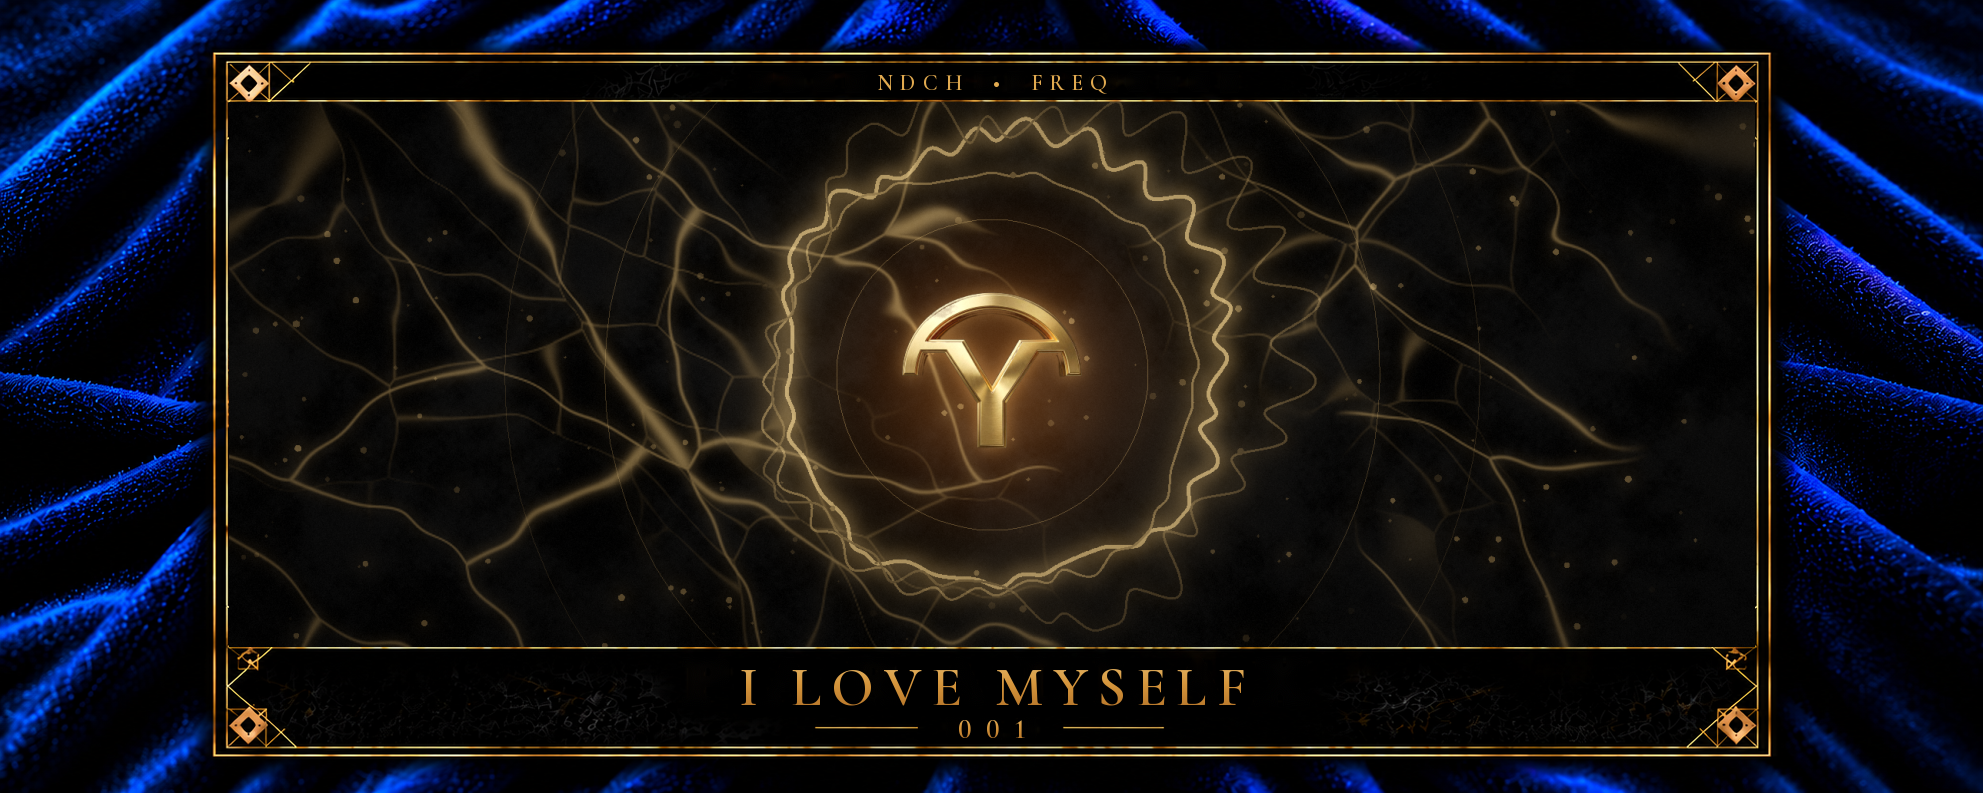
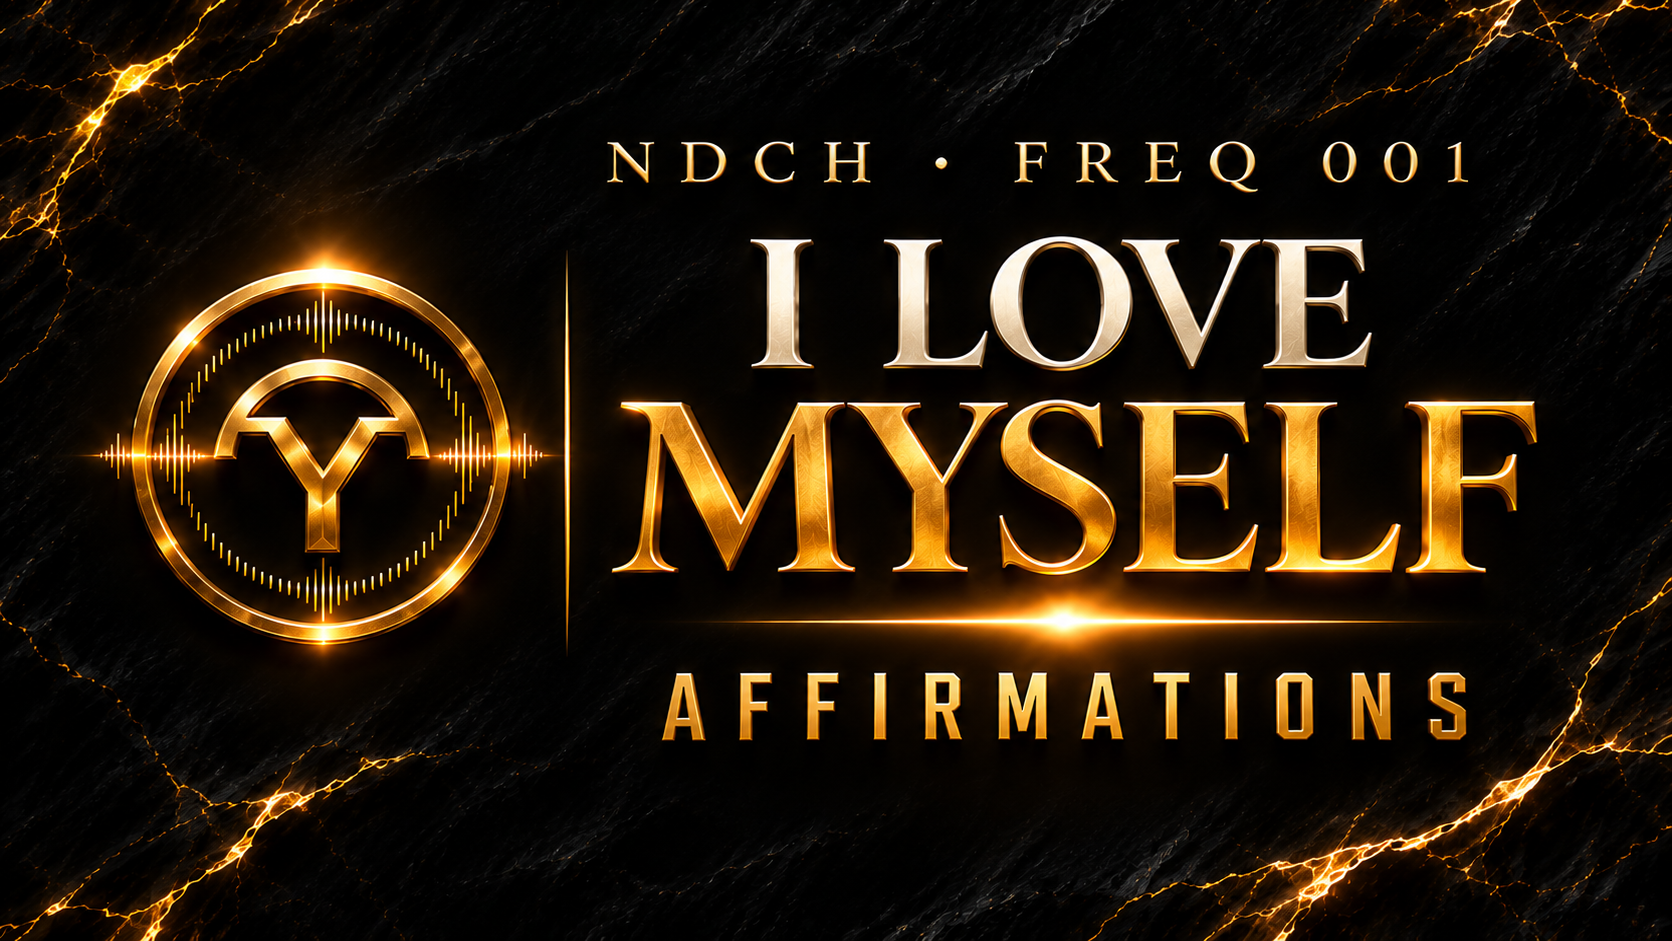
FREQ 001: re-release with DreamForge binaural bed and new covers; freq:binaural --video (#217)
Claude-Session: https://claude.ai/code/session_018B2Xkx99ojEt22DjChFVnu

diff --git a/scripts/freq-binaural.ts b/scripts/freq-binaural.ts
@@ -4,11 +4,13 @@
  *   npm run freq:binaural -- 002 path/to/song.wav            uses posts/freq/002_*.json → binaural
  *   npm run freq:binaural -- 002 song.wav --out renders/      choose the output folder
  *   npm run freq:binaural -- --protocol DreamForge song.wav   try a protocol without a track file
+ *   npm run freq:binaural -- 002 song.wav --video cut.mp4    also put the verified audio into a finished video (picture untouched)
  *   npm run freq:binaural -- --list                           print the protocols and the chart
  *
  * Writes <out>/FREQ_<NNN>_<TITLE>_binaural.wav (the audio to render the video with), the bed stem,
  * and a .report.json with every measurement. Exits non-zero if any check fails: don't render with it.
  */
+import { execFileSync } from 'node:child_process';
 import { mkdirSync, writeFileSync } from 'node:fs';
 import { join, resolve } from 'node:path';
 import { AFFIRMATION_FIT, CHART, PROTOCOLS, resolveBinaural, type ProtocolName, type TrackBinaural } from '../lib/binaural.ts';
@@ -27,6 +29,7 @@ if (args.includes('--list')) {
   process.exit(0);
 }
 
+const video = opt('--video');
 const outDir = resolve(opt('--out') ?? 'renders/freq');
 const protocol = opt('--protocol') as ProtocolName | undefined;
 let decl: TrackBinaural, name: string;
@@ -53,4 +56,11 @@ writeFileSync(join(outDir, `${name}_binaural.report.json`), JSON.stringify(repor
 console.log(`${name}: ${spec.source} · L ${spec.left_hz} Hz / R ${spec.right_hz} Hz · beat ${spec.beat_hz} Hz · ${spec.level_lu_below} LU under the song\n`);
 for (const c of report.checks) console.log(`  ${c.ok ? 'ok  ' : 'FAIL'}  ${c.name.padEnd(28)} ${c.detail}`);
 console.log(`\n${report.ok ? 'ready' : 'NOT READY, do not render with this'}: ${out}`);
+if (report.ok && video) {
+  // Picture copied as is; audio as stereo AAC 320k without mid/side coding, so each ear keeps its own tone.
+  const vout = join(outDir, `${name}_BINAURAL.mp4`);
+  execFileSync('ffmpeg', ['-y', '-v', 'error', '-i', resolve(video), '-i', out, '-map', '0:v', '-map', '1:a', '-c:v', 'copy',
+    '-c:a', 'aac', '-aac_ms', '0', '-b:a', '320k', '-ac', '2', '-movflags', '+faststart', '-shortest', vout]);
+  console.log(`video: ${vout}`);
+}
 process.exit(report.ok ? 0 : 1);

diff --git a/binaural.test.ts b/binaural.test.ts
@@ -37,11 +37,14 @@ test('resolve: left = base, right = base + beat; protocols cannot be overridden'
   assert.deepEqual(validateBinaural({ protocol: 'DreamForge', level_lu_below: 20, fade_s: 6 }), []);
 });
 
-test('FREQ rules: 002+ needs a bed and a headphones line; no health claims anywhere', () => {
+test('FREQ rules: a track needs a bed and a headphones line; no health claims anywhere', () => {
   const base = loadPosts(FREQ_DIR).find((p) => p.posting === '001')!;
-  assert.deepEqual(validatePost(base), []); // 001 was released without a bed
+  assert.deepEqual(validatePost(base), []);
   const p: ReelPost = structuredClone(base);
   p.posting = '002';
+  delete p.binaural;
+  p.platforms.youtube.description = p.platforms.youtube.description.replace(/\n\nBest with headphones\. 🎧/, '');
+  p.platforms.instagram.caption = p.platforms.instagram.caption.replace(/\n\nBest with headphones\. 🎧/, '');
   p.platforms.youtube.title = p.platforms.youtube.title.replace('FREQ 001', 'FREQ 002');
   p.platforms.tiktok.caption = p.platforms.tiktok.caption.replace('FREQ 001', 'FREQ 002');
   assert.ok(validatePost(p).some((e) => e.includes('binaural: missing')));

diff --git a/posts/POST_KIT.md b/posts/POST_KIT.md
@@ -1449,13 +1449,15 @@ Page cover: --ar 21:8 (1640×624); series/video cover: --ar 16:9. Add --style ra
 
 | # | Track | Status | YouTube | Location |
 | --- | --- | --- | --- | --- |
-| FREQ 001 | [I LOVE MYSELF](#freq-001--i-love-myself) | posted |  | Temple of Apollo, Delphi |
+| FREQ 001 | [I LOVE MYSELF](#freq-001--i-love-myself) | draft |  | Temple of Apollo, Delphi |
 
 ## FREQ 001 · I LOVE MYSELF
 
-Status: posted
+Status: draft
 
-Note: YouTube posted (full 3:32 cut, description below is as posted). Instagram, TikTok and Facebook still to post: use the 2:59 cut on all three, since Reels over 3 minutes aren't shown to non-followers. LinkedIn comes later.
+Note: Re-release with binaural beats (DreamForge: left 285 Hz / right 294 Hz, 9 Hz beat, 18 LU under the song) and the new covers. Full cut (3:32) for YouTube; under-3:00 cut (2:59) for the Short, Instagram, TikTok and Facebook, since Reels over 3 minutes aren't shown to non-followers. LinkedIn comes later.
+
+Binaural bed: protocol DreamForge · left 285 Hz / right 294 Hz · 9 Hz beat · 18 LU under the song (`npm run freq:binaural -- 001 <song>`)
 
 Covers: `assets/covers/FREQ_001_I_LOVE_MYSELF_vertical.png`, `assets/covers/FREQ_001_I_LOVE_MYSELF_horizontal.png`
 
@@ -1482,6 +1484,8 @@ The frequencies change what you tell yourself.
 001 | I LOVE MYSELF
 You do not have to become someone else to be worthy of your own love.
 You begin here.
+
+Best with headphones. 🎧
 ```
 
 **Pinned comment**
@@ -1498,6 +1502,8 @@ Say it once for yourself today. What's one thing you love about you? 🤍
 I love myself. I love the way I feel in my own skin.
 
 You do not have to become someone else to be worthy of your own love. You begin here.
+
+Best with headphones. 🎧
 
 —
 NDCH FREQ · 001
@@ -1543,6 +1549,8 @@ I love myself. I love the way I feel in my own skin.
 The reels change how you see. The frequencies change what you tell yourself.
 
 You do not have to become someone else to be worthy of your own love. You begin here.
+
+Best with headphones. 🎧
 
 #NDCH #NDCHFREQ #SelfLove
 ```

diff --git a/FREQ_AUDIO.md b/FREQ_AUDIO.md
@@ -1,6 +1,6 @@
 # NDCH FREQ audio: binaural beds
 
-Every FREQ track from 002 on carries a binaural bed under the song. FREQ 001 was released without one and stays as it is.
+Every FREQ track carries a binaural bed under the song. FREQ 001 was re-released with one (DreamForge).
 
 The frequencies are hard-coded in `lib/binaural.ts` from the two NDCH sheets: the five communication protocols and the 30-step brainwave chart. Tests fail if a value drifts from the sheets.
 
@@ -42,6 +42,8 @@ A binaural beat is two steady sine tones, one per ear: the **base** in the left 
    This writes `renders/freq/FREQ_002_<TITLE>_binaural.wav`, the file to render the video with, plus the bed stem and a report. It exits non-zero if any check fails. Don't render with a failed mix.
 
 4. Render the video from the `_binaural.wav` file. Encode the audio as stereo AAC at 320 kbps.
+
+   If the video is already finished, add `--video cut.mp4`. Pass the song as that cut's own audio track (`ffmpeg -i cut.mp4 -vn -c:a pcm_s24le song.wav`) so the beats line up with any edits. The command writes `<name>_BINAURAL.mp4` with the picture untouched.
 
 5. Copy: the YouTube description and the Instagram caption must say to use headphones. The post kit enforces this, for example with "Best with headphones."
 
